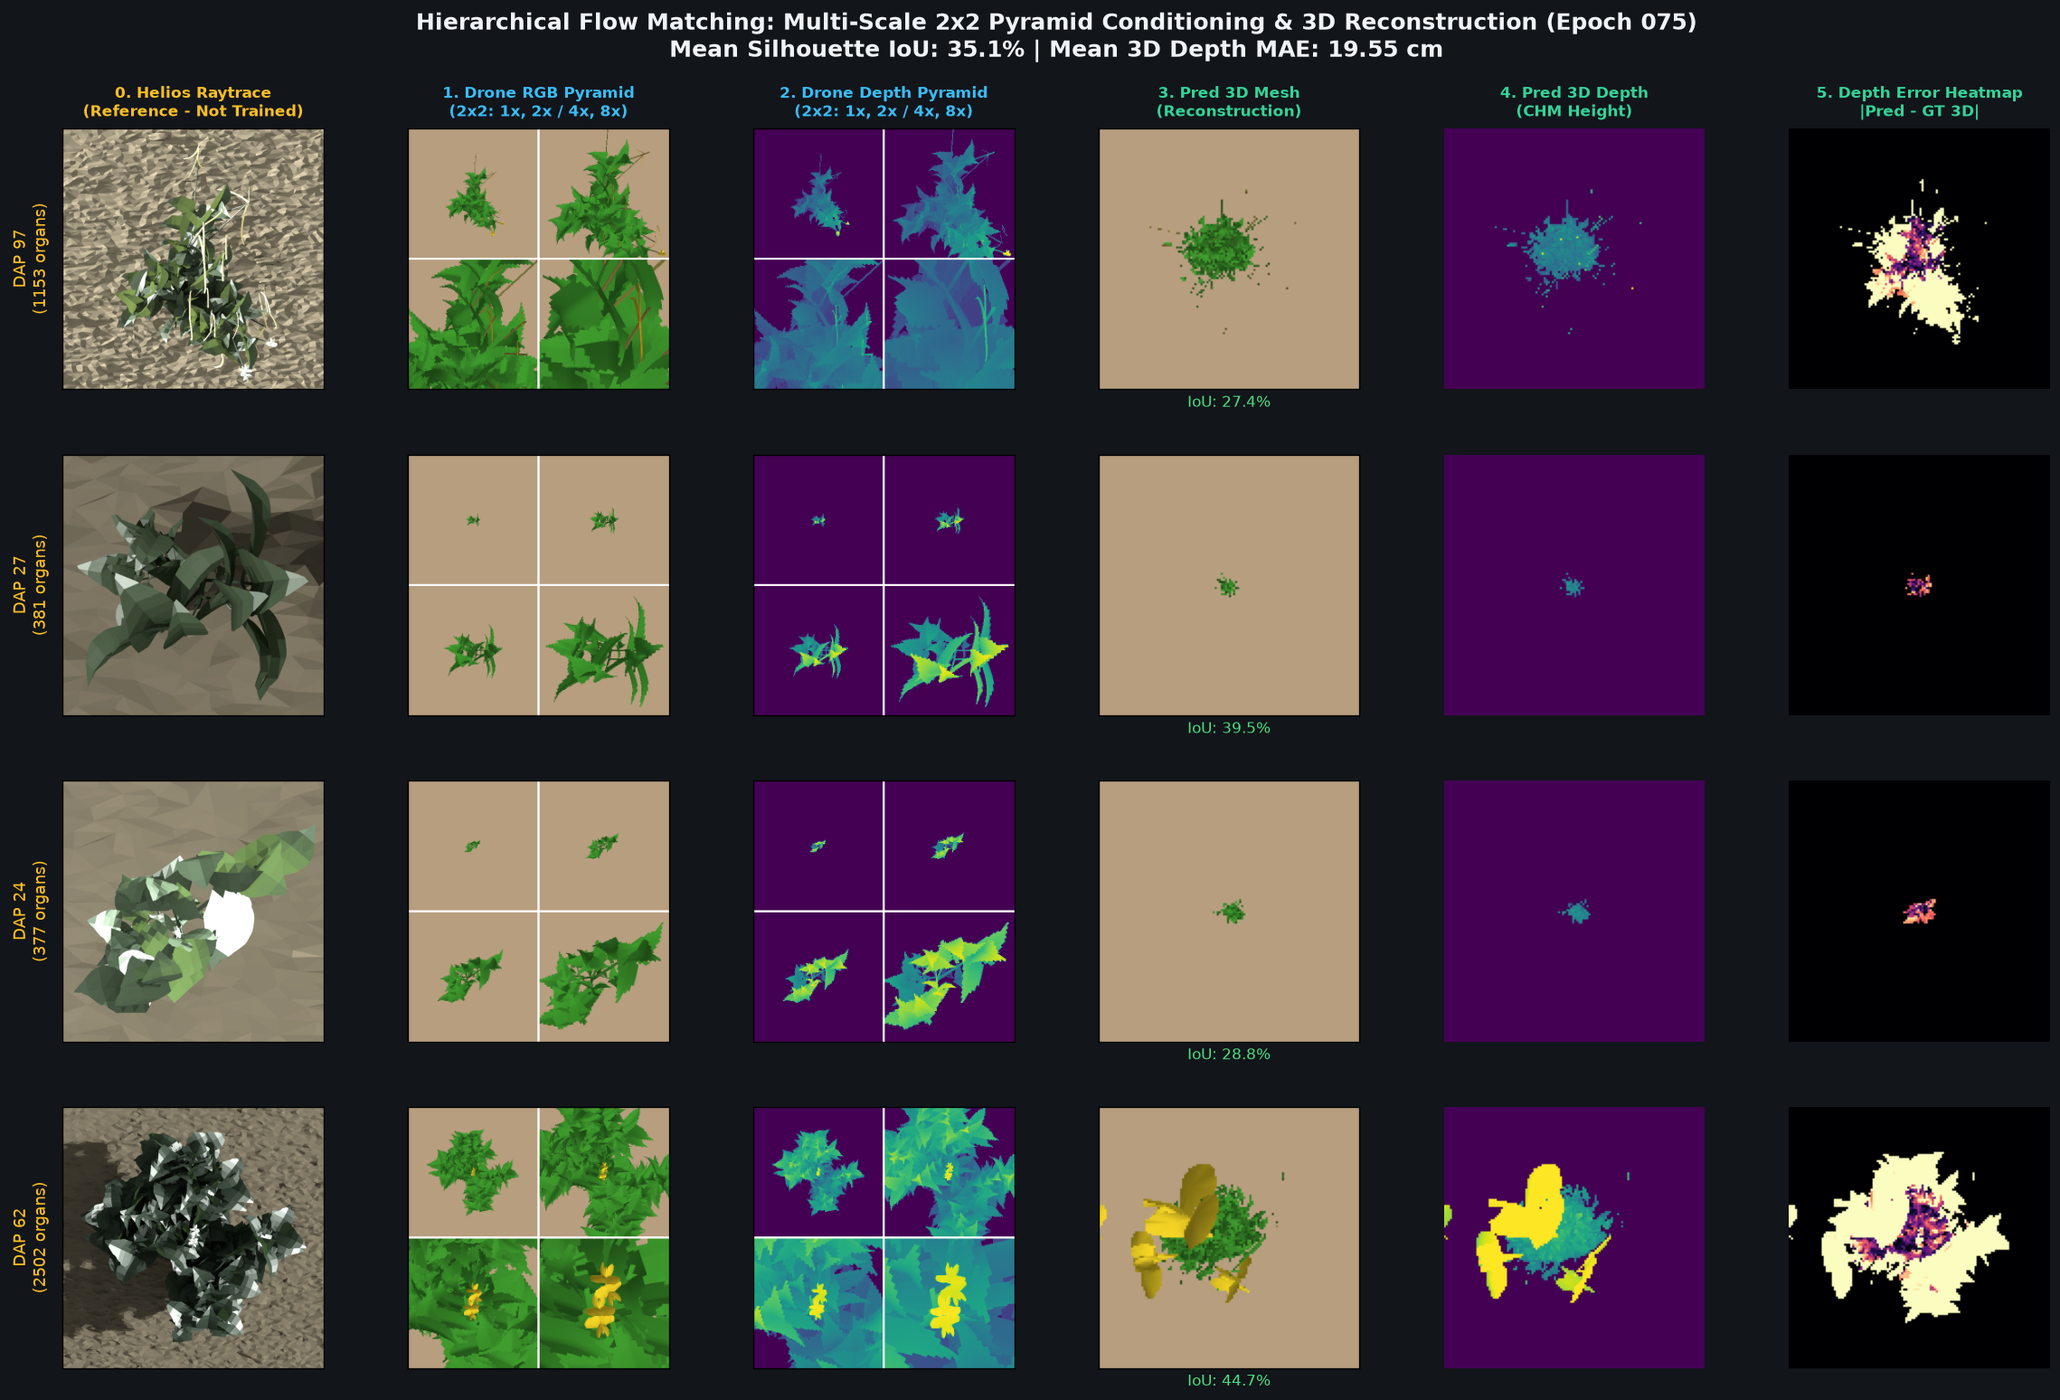
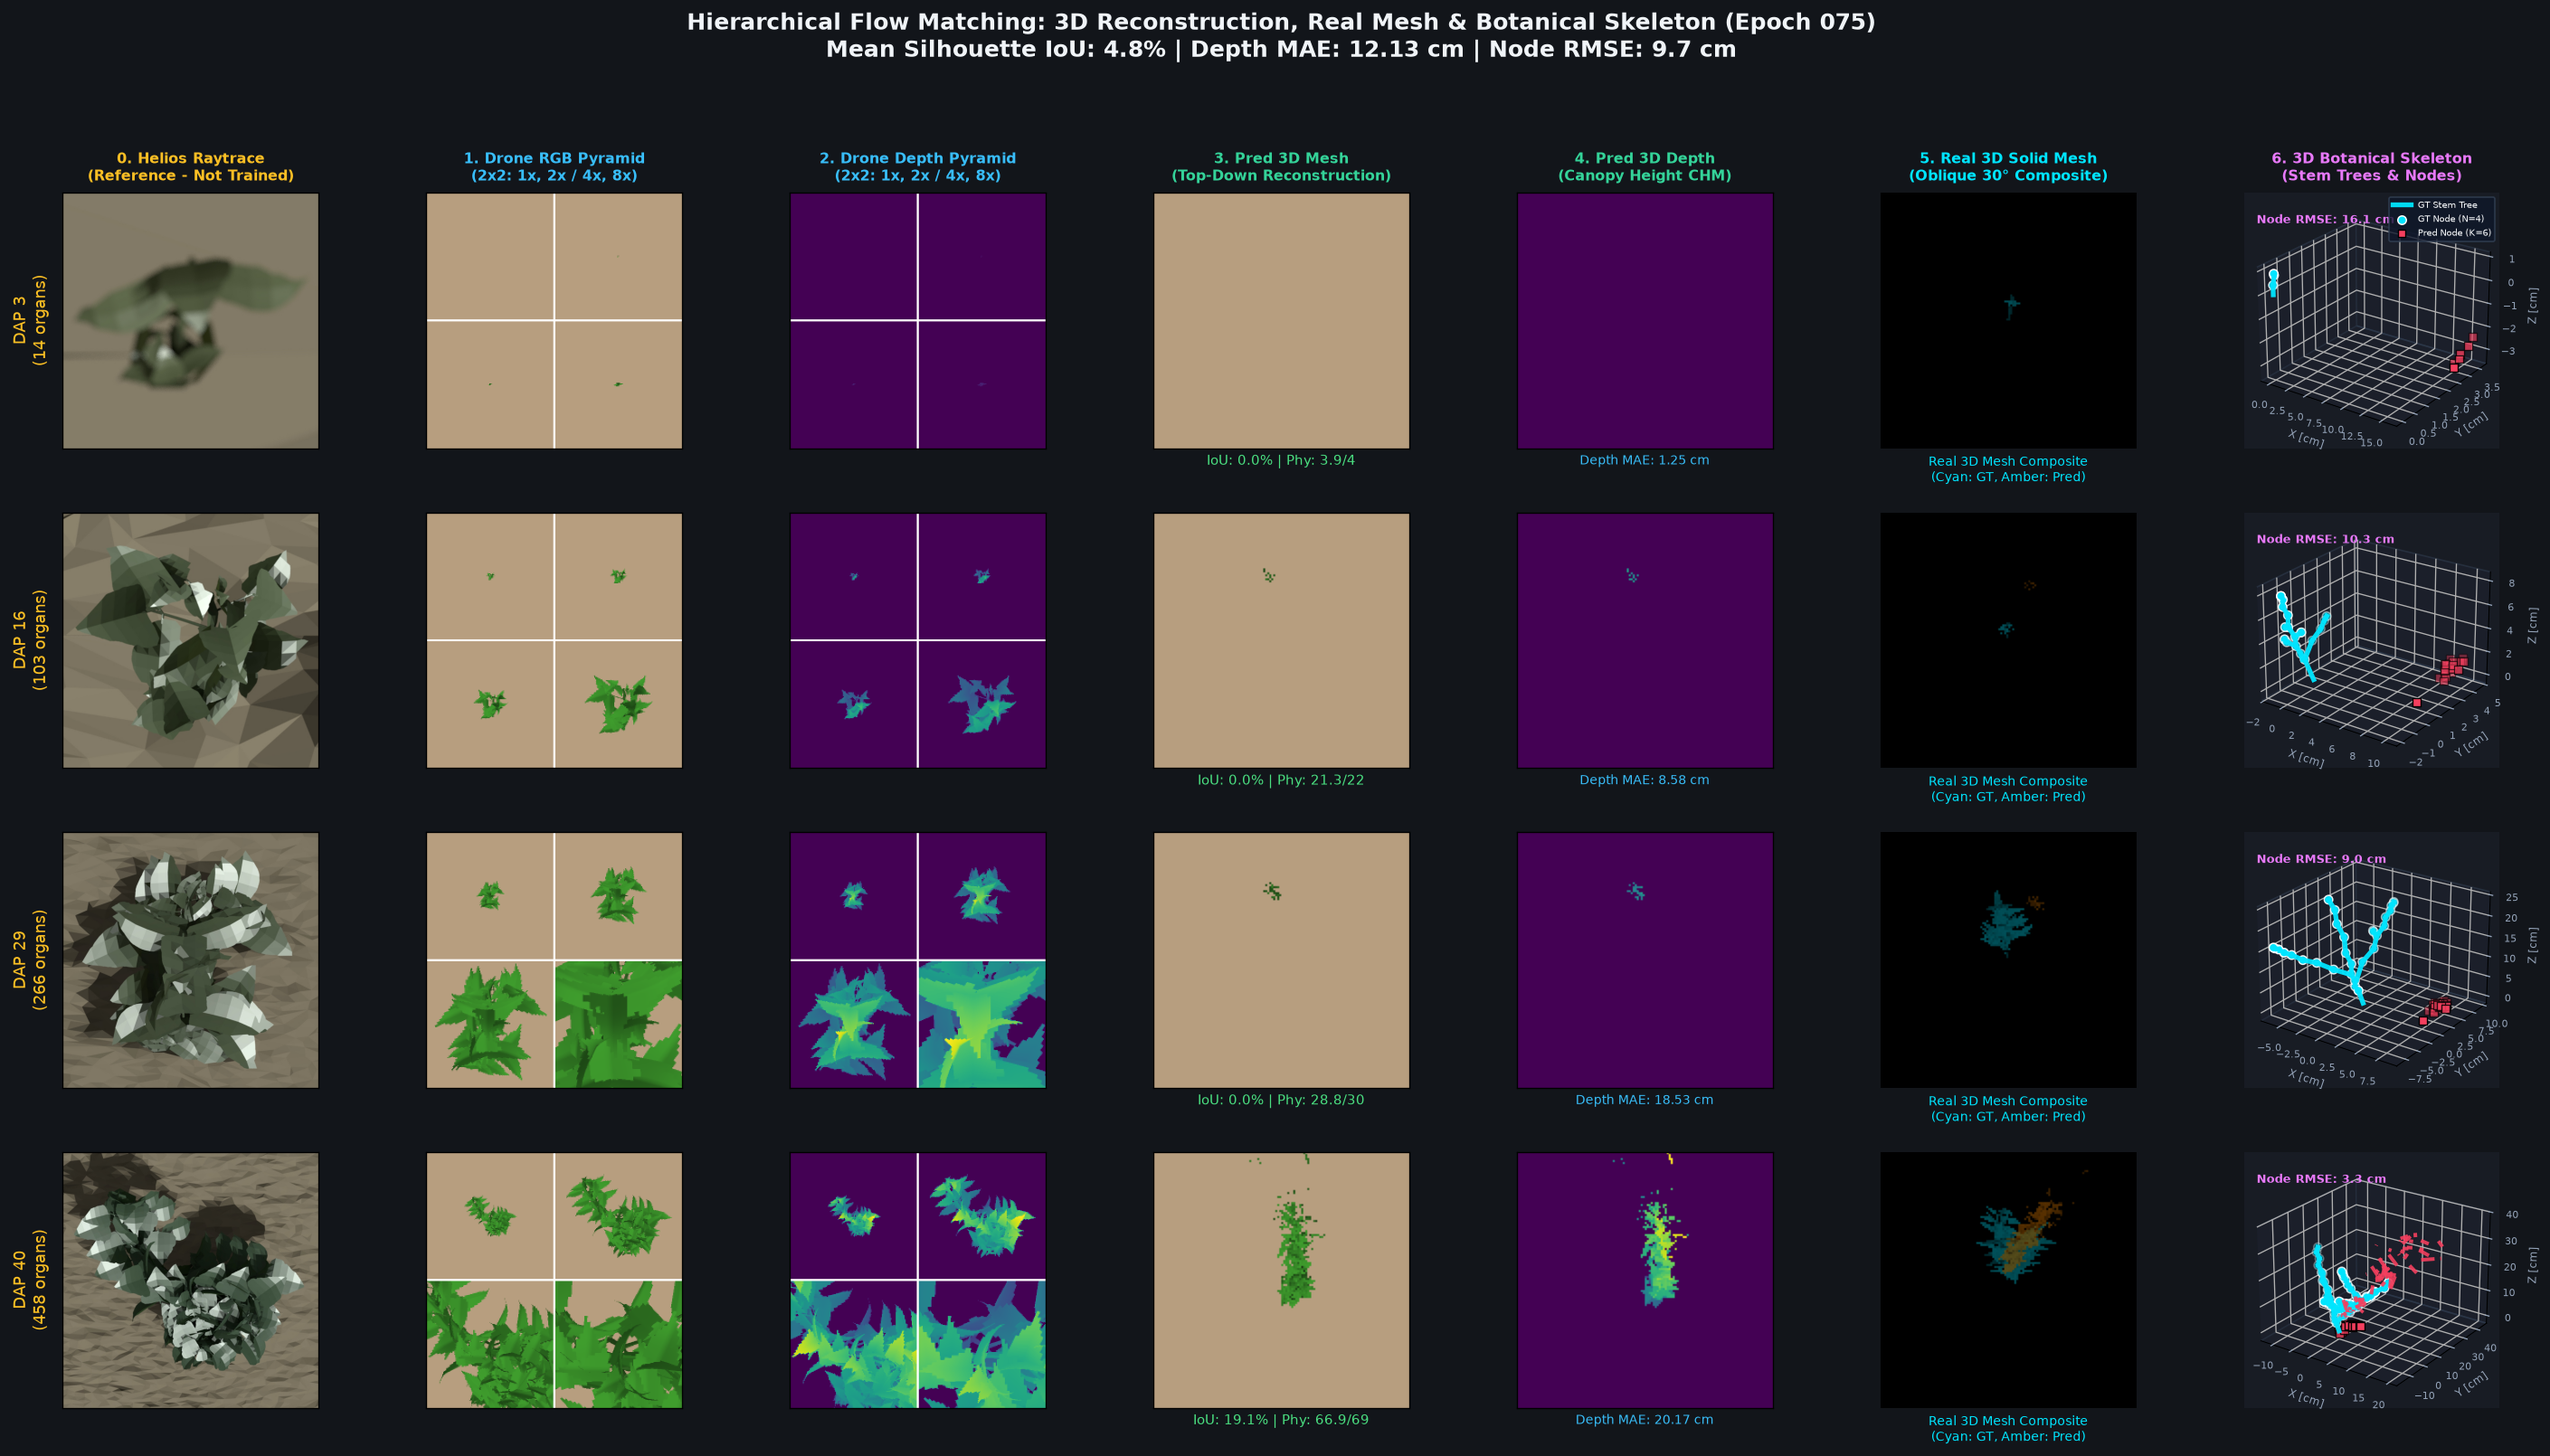
refactor(eval): streamline self-consistency panel to 7 columns by removing redundant 2D depth error map

diff --git a/diffusion_based/eval/eval_hierarchical_self_consistency.py b/diffusion_based/eval/eval_hierarchical_self_consistency.py
@@ -302,35 +302,37 @@ def evaluate_self_consistency_batch(
         # Oblique 3D Real Mesh Composite (Cyan: GT, Amber: Pred, Blend: Overlap)
         comp_img = None
         try:
-            gt_cyan = None
+            rend_gt_obl = None
             if gt_mesh is not None and "vertices" in gt_mesh and gt_mesh["vertices"].shape[0] > 0:
-                gt_cyan_mesh = dict(gt_mesh)
-                gt_cyan_mesh["colors"] = torch.tensor([0.0, 0.90, 1.0], device=device).expand_as(gt_mesh["colors"])
-                gt_cyan = renderer.forward(
-                    gt_cyan_mesh, elevation_deg=30.0, azimuth_deg=-50.0, camera_height=4.0, focus_plant=True, include_depth=True
+                rend_gt_obl = renderer.forward(
+                    gt_mesh, elevation_deg=30.0, azimuth_deg=30.0, background="black", focus_plant=False, include_depth=False, zoom_factor=eval_zoom, reference_window_size=1.2
                 )
 
-            pred_amber = None
+            rend_pred_obl = None
             if active_parts.shape[0] > 0 and "vertices" in mesh and mesh["vertices"].shape[0] > 0:
-                pred_amber_mesh = dict(mesh)
-                pred_amber_mesh["colors"] = torch.tensor([0.98, 0.57, 0.24], device=device).expand_as(mesh["colors"])
-                pred_amber = renderer.forward(
-                    pred_amber_mesh, elevation_deg=30.0, azimuth_deg=-50.0, camera_height=4.0, focus_plant=True, include_depth=True
+                rend_pred_obl = renderer.forward(
+                    mesh, elevation_deg=30.0, azimuth_deg=30.0, background="black", focus_plant=False, include_depth=False, zoom_factor=eval_zoom, reference_window_size=1.2
                 )
 
-            if gt_cyan is not None and pred_amber is not None:
-                mask_pred = (pred_amber[3] > 0.005).unsqueeze(0).expand(3, -1, -1)
-                mask_gt = (gt_cyan[3] > 0.005).unsqueeze(0).expand(3, -1, -1)
-                comp = torch.zeros_like(gt_cyan[:3])
-                comp = comp + renderer.COLOR_GROUND.to(device).view(3, 1, 1) * (~(mask_pred | mask_gt)).float()
-                comp = torch.where(mask_gt & ~mask_pred, gt_cyan[:3], comp)
-                comp = torch.where(mask_pred & ~mask_gt, pred_amber[:3], comp)
-                comp = torch.where(mask_pred & mask_gt, pred_amber[:3] * 0.7 + gt_cyan[:3] * 0.3, comp)
-                comp_img = comp.permute(1, 2, 0).clamp(0, 1).cpu().numpy()
-            elif gt_cyan is not None:
-                comp_img = gt_cyan[:3].permute(1, 2, 0).clamp(0, 1).cpu().numpy()
-            elif pred_amber is not None:
-                comp_img = pred_amber[:3].permute(1, 2, 0).clamp(0, 1).cpu().numpy()
+            if rend_gt_obl is not None and rend_pred_obl is not None:
+                gt_lum = rend_gt_obl[:3].mean(dim=0, keepdim=True)
+                pred_lum = rend_pred_obl[:3].mean(dim=0, keepdim=True)
+                cyan = torch.tensor([0.0, 0.9, 1.0], device=device)[:, None, None]
+                amber = torch.tensor([1.0, 0.55, 0.0], device=device)[:, None, None]
+                gt_colored = gt_lum * cyan
+                pred_colored = pred_lum * amber
+                overlap_mask = (gt_lum > 0.08) & (pred_lum > 0.08)
+                comp_tensor = gt_colored + pred_colored
+                comp_tensor = torch.where(overlap_mask, torch.tensor([0.95, 0.85, 0.3], device=device)[:, None, None] * torch.max(gt_lum, pred_lum), comp_tensor)
+                comp_img = comp_tensor.permute(1, 2, 0).clamp(0, 1).cpu().numpy()
+            elif rend_gt_obl is not None:
+                gt_lum = rend_gt_obl[:3].mean(dim=0, keepdim=True)
+                cyan = torch.tensor([0.0, 0.9, 1.0], device=device)[:, None, None]
+                comp_img = (gt_lum * cyan).permute(1, 2, 0).clamp(0, 1).cpu().numpy()
+            elif rend_pred_obl is not None:
+                pred_lum = rend_pred_obl[:3].mean(dim=0, keepdim=True)
+                amber = torch.tensor([1.0, 0.55, 0.0], device=device)[:, None, None]
+                comp_img = (pred_lum * amber).permute(1, 2, 0).clamp(0, 1).cpu().numpy()
         except Exception:
             comp_img = None
 
@@ -442,11 +444,11 @@ def evaluate_self_consistency_batch(
             "comp_img": comp_img,
         })
 
-    # 6. Build Diagnostic Visualization Figure (8 Columns: Ref + RGB + Depth + Pred RGB + Pred Depth + Depth Error + Real Solid Mesh + 3D Botanical Skeleton & Nodes)
+    # 6. Build Diagnostic Visualization Figure (7 Columns: Ref + RGB + Depth + Pred RGB + Pred Depth + Real Solid Mesh + 3D Botanical Skeleton & Nodes)
     if panels_data:
         n_rows = len(panels_data)
-        fig = plt.figure(figsize=(28.0, 3.5 * n_rows), facecolor="#12151a")
-        gs = fig.add_gridspec(n_rows, 8, wspace=0.15, hspace=0.25, left=0.02, right=0.98, top=0.84, bottom=0.04)
+        fig = plt.figure(figsize=(24.5, 3.5 * n_rows), facecolor="#12151a")
+        gs = fig.add_gridspec(n_rows, 7, wspace=0.14, hspace=0.25, left=0.03, right=0.97, top=0.84, bottom=0.04)
 
         mean_node_rmse = np.mean([d["node_rmse_cm"] for d in panels_data])
         fig.suptitle(
@@ -461,20 +463,19 @@ def evaluate_self_consistency_batch(
             "2. Drone Depth Pyramid\n(2x2: 1x, 2x / 4x, 8x)",
             "3. Pred 3D Mesh\n(Top-Down Reconstruction)",
             "4. Pred 3D Depth\n(Canopy Height CHM)",
-            "5. Signed Depth Error\n(Blue: Under, Red: Over)",
-            "6. Real 3D Solid Mesh\n(Oblique 30° Composite)",
-            "7. 3D Botanical Skeleton\n(Stem Trees & Nodes)",
+            "5. Real 3D Solid Mesh\n(Oblique 30° Composite)",
+            "6. 3D Botanical Skeleton\n(Stem Trees & Nodes)",
         ]
 
         for row_idx, data in enumerate(panels_data):
             vmax_d = max(0.3, float(data["gt_3d_depth"].max()))
 
-            # Create 2D subplots for Columns 0 to 6
+            # Create 2D subplots for Columns 0 to 5
             axes_row = []
-            for col_idx in range(7):
+            for col_idx in range(6):
                 ax = fig.add_subplot(gs[row_idx, col_idx])
                 if row_idx == 0:
-                    color = "#fbbf24" if col_idx == 0 else ("#38bdf8" if col_idx in (1, 2) else ("#34d399" if col_idx in (3, 4) else ("#38bdf8" if col_idx == 5 else "#00e5ff")))
+                    color = "#fbbf24" if col_idx == 0 else ("#38bdf8" if col_idx in (1, 2) else ("#34d399" if col_idx in (3, 4) else "#00e5ff"))
                     ax.set_title(col_titles[col_idx], fontsize=9.5, fontweight="bold", color=color, pad=8)
                 axes_row.append(ax)
 
@@ -508,68 +509,67 @@ def evaluate_self_consistency_batch(
 
             # Col 4: Pred 3D Depth
             axes_row[4].imshow(data["pred_depth"], cmap="viridis", vmin=0.0, vmax=vmax_d)
-            axes_row[4].axis("off")
+            axes_row[4].set_xlabel(f"Depth MAE: {data['depth_mae']*100:.2f} cm", fontsize=8.5, color="#38bdf8")
+            axes_row[4].set_xticks([])
+            axes_row[4].set_yticks([])
 
-            # Col 5: Signed Depth Error Heatmap (BWR: Blue=Under/GT missing, Red=Over/Pred extra)
-            signed_diff = data["pred_depth"] - data["gt_3d_depth"]
-            axes_row[5].imshow(signed_diff, cmap="bwr", vmin=-0.15, vmax=0.15)
-            axes_row[5].set_xlabel(f"MAE: {data['depth_mae']*100:.2f} cm\n(Blue: Under, Red: Over)", fontsize=8.5, color="#38bdf8")
-            axes_row[5].axis("off")
-
-            # Col 6: Oblique 3D Real Mesh Composite (Cyan: GT, Amber: Pred, Blend: Overlap)
+            # Col 5: Oblique 3D Real Mesh Composite (Cyan: GT, Amber: Pred, Blend: Overlap)
             if data.get("comp_img") is not None:
-                axes_row[6].imshow(data["comp_img"])
-                axes_row[6].set_xlabel("Real 3D Mesh Composite\n(Cyan: GT, Amber: Pred)", fontsize=8.5, color="#00e5ff")
+                axes_row[5].imshow(data["comp_img"])
+                axes_row[5].set_xlabel("Real 3D Mesh Composite\n(Cyan: GT, Amber: Pred)", fontsize=8.5, color="#00e5ff")
             else:
-                axes_row[6].text(0.5, 0.5, "Mesh N/A", color="#94a3b8", ha="center", va="center")
-            axes_row[6].axis("off")
+                axes_row[5].text(0.5, 0.5, "Mesh N/A", color="#94a3b8", ha="center", va="center")
+            axes_row[5].set_xticks([])
+            axes_row[5].set_yticks([])
+            for spine in axes_row[5].spines.values():
+                spine.set_visible(False)
 
-            # Col 7: 3D Botanical Skeleton & Nodes (Matplotlib 3D)
-            ax7 = fig.add_subplot(gs[row_idx, 7], projection="3d")
-            ax7.set_facecolor("#181c24")
-            ax7.view_init(elev=24, azim=-55)
+            # Col 6: 3D Botanical Skeleton & Nodes (Matplotlib 3D)
+            ax6 = fig.add_subplot(gs[row_idx, 6], projection="3d")
+            ax6.set_facecolor("#181c24")
+            ax6.view_init(elev=24, azim=-55)
             if row_idx == 0:
-                ax7.set_title(col_titles[7], fontsize=9.5, fontweight="bold", color="#e879f9", pad=8)
+                ax6.set_title(col_titles[6], fontsize=9.5, fontweight="bold", color="#e879f9", pad=8)
 
             # Draw GT stem segments (internode tubes)
             gt_segs = data.get("gt_stem_segments", [])
             for i, (b_pos, tp_pos) in enumerate(gt_segs):
                 lbl = "GT Stem Tree" if i == 0 else ""
-                ax7.plot([b_pos[0], tp_pos[0]], [b_pos[1], tp_pos[1]], [b_pos[2], tp_pos[2]],
+                ax6.plot([b_pos[0], tp_pos[0]], [b_pos[1], tp_pos[1]], [b_pos[2], tp_pos[2]],
                          color="#00e5ff", linestyle="-", linewidth=3.2, alpha=0.95, zorder=10, label=lbl)
 
             # Draw Pred stem segments (internode tubes)
             pred_segs = data.get("pred_stem_segments", [])
             for i, (b_pos, tp_pos) in enumerate(pred_segs):
                 lbl = "Pred Stem Tree" if i == 0 else ""
-                ax7.plot([b_pos[0], tp_pos[0]], [b_pos[1], tp_pos[1]], [b_pos[2], tp_pos[2]],
+                ax6.plot([b_pos[0], tp_pos[0]], [b_pos[1], tp_pos[1]], [b_pos[2], tp_pos[2]],
                          color="#f43f5e", linestyle="--", linewidth=2.4, alpha=0.90, zorder=11, label=lbl)
 
             # Draw GT Nodes
             if len(data["gt_nodes"]) > 0:
-                ax7.scatter(data["gt_nodes"][:, 0] * 100, data["gt_nodes"][:, 1] * 100, data["gt_nodes"][:, 2] * 100,
+                ax6.scatter(data["gt_nodes"][:, 0] * 100, data["gt_nodes"][:, 1] * 100, data["gt_nodes"][:, 2] * 100,
                             c="#00e5ff", s=32, edgecolors="white", linewidth=0.9, zorder=12,
                             label=f"GT Node (N={len(data['gt_nodes'])})")
 
             # Draw Pred Nodes
             if len(data["pred_nodes"]) > 0:
-                ax7.scatter(data["pred_nodes"][:, 0] * 100, data["pred_nodes"][:, 1] * 100, data["pred_nodes"][:, 2] * 100,
+                ax6.scatter(data["pred_nodes"][:, 0] * 100, data["pred_nodes"][:, 1] * 100, data["pred_nodes"][:, 2] * 100,
                             c="#f43f5e", marker="s", s=28, edgecolors="black", linewidth=0.8, zorder=13,
                             label=f"Pred Node (K={len(data['pred_nodes'])})")
 
-            ax7.tick_params(colors="#94a3b8", labelsize=6.5, pad=0.5)
-            for pane in [ax7.xaxis.pane, ax7.yaxis.pane, ax7.zaxis.pane]:
+            ax6.tick_params(colors="#94a3b8", labelsize=6.5, pad=0.5)
+            for pane in [ax6.xaxis.pane, ax6.yaxis.pane, ax6.zaxis.pane]:
                 pane.set_facecolor("#1e2330")
                 pane.set_edgecolor("#334155")
 
-            ax7.set_xlabel("X [cm]", fontsize=7, color="#94a3b8", labelpad=-3)
-            ax7.set_ylabel("Y [cm]", fontsize=7, color="#94a3b8", labelpad=-3)
-            ax7.set_zlabel("Z [cm]", fontsize=7, color="#94a3b8", labelpad=-3)
+            ax6.set_xlabel("X [cm]", fontsize=7, color="#94a3b8", labelpad=-3)
+            ax6.set_ylabel("Y [cm]", fontsize=7, color="#94a3b8", labelpad=-3)
+            ax6.set_zlabel("Z [cm]", fontsize=7, color="#94a3b8", labelpad=-3)
 
             rmse_str = f"Node RMSE: {data['node_rmse_cm']:.1f} cm"
-            ax7.text2D(0.05, 0.88, rmse_str, transform=ax7.transAxes, color="#e879f9", fontsize=8, fontweight="bold")
+            ax6.text2D(0.05, 0.88, rmse_str, transform=ax6.transAxes, color="#e879f9", fontsize=8, fontweight="bold")
             if row_idx == 0:
-                ax7.legend(loc="upper right", fontsize=6.0, facecolor="#0f172a", edgecolor="#334155", labelcolor="#f8fafc", framealpha=0.8)
+                ax6.legend(loc="upper right", fontsize=6.0, facecolor="#0f172a", edgecolor="#334155", labelcolor="#f8fafc", framealpha=0.8)
 
         panel_path = os.path.join(output_dir, f"hierarchical_self_consistency_epoch_{epoch:03d}.png")
         fig.savefig(panel_path, dpi=120, bbox_inches="tight", facecolor=fig.get_facecolor())
